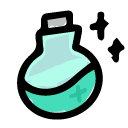
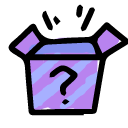
a

diff --git a/joey2/Assets/Scripts/ViewControl/UIDescExtControl.cs b/joey2/Assets/Scripts/ViewControl/UIDescExtControl.cs
@@ -68,8 +68,10 @@ public class UIDescExtControl : YViewControl
 		{
 			x = -targetWidth * 0.5f - descWidth * 0.5f - m_Spacing;
 		}
-		float y = targetRectLocal.yMax - descRect.yMax;
-
+		float yOffset = 60f;
+		float xOffset = 20f;
+		float y = targetRectLocal.yMax - descRect.yMax - yOffset;
+		x -= xOffset;
 		m_RectTransform.localPosition = new Vector2(x, y);
 		this.transform.SetParent(Asset.UIRoot);
 
